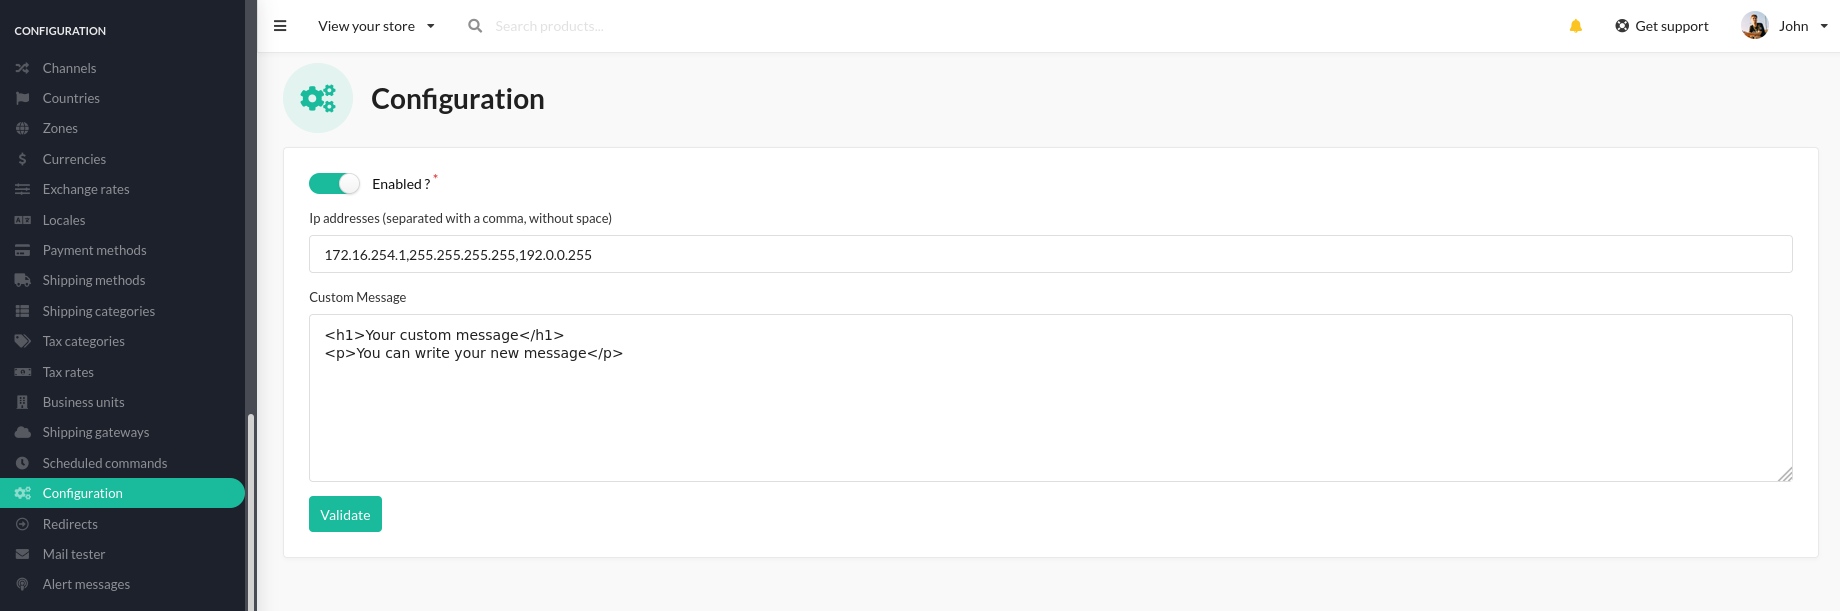
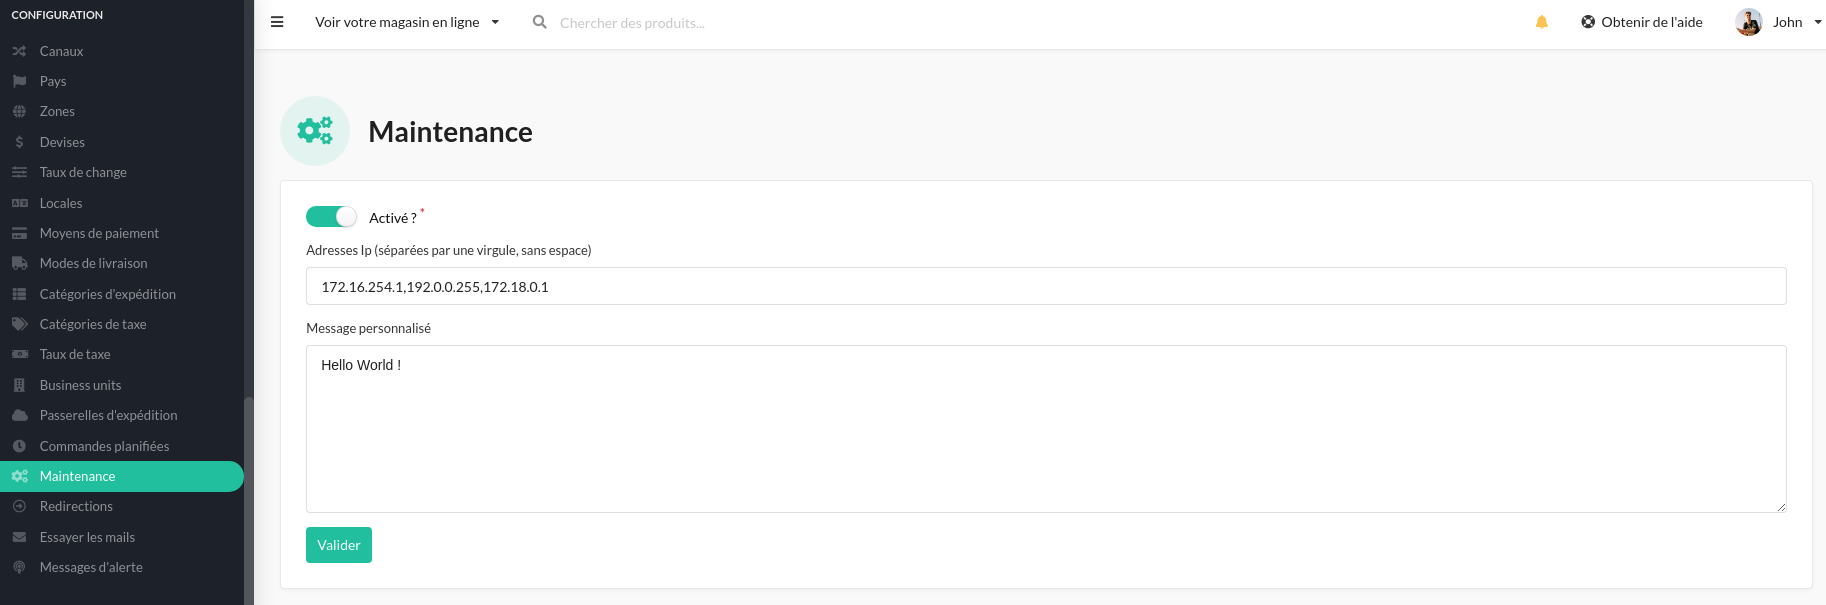
review: translate messages

diff --git a/src/Command/EnableMaintenanceCommand.php b/src/Command/EnableMaintenanceCommand.php
@@ -8,6 +8,7 @@ use Symfony\Component\Console\Command\Command;
 use Symfony\Component\Console\Input\InputArgument;
 use Symfony\Component\Console\Input\InputInterface;
 use Symfony\Component\Console\Output\OutputInterface;
+use Symfony\Contracts\Translation\TranslatorInterface;
 use Synolia\SyliusMaintenancePlugin\FileManager\ConfigurationFileManager;
 
 final class EnableMaintenanceCommand extends Command
@@ -18,9 +19,12 @@ final class EnableMaintenanceCommand extends Command
 
     private ConfigurationFileManager $fileManager;
 
-    public function __construct(ConfigurationFileManager $fileManager)
+    private TranslatorInterface $translator;
+
+    public function __construct(ConfigurationFileManager $fileManager, TranslatorInterface $translator)
     {
         $this->fileManager = $fileManager;
+        $this->translator = $translator;
 
         parent::__construct();
     }
@@ -35,13 +39,13 @@ final class EnableMaintenanceCommand extends Command
 
     protected function execute(InputInterface $input, OutputInterface $output): int
     {
-        $output->writeln($this->fileManager->createFile(self::MAINTENANCE_FILE));
+        $output->writeln($this->translator->trans($this->fileManager->createFile(self::MAINTENANCE_FILE)));
 
         /** @var array $ipsAddress */
         $ipsAddress = $input->getArgument('ips_address');
 
         if (0 < \count($ipsAddress)) {
-            $output->writeln($this->fileManager->putIpsIntoFile($ipsAddress, self::MAINTENANCE_FILE));
+            $output->writeln($this->translator->trans($this->fileManager->putIpsIntoFile($ipsAddress, self::MAINTENANCE_FILE)));
         }
 
         return 0;

diff --git a/src/Command/DisableMaintenanceCommand.php b/src/Command/DisableMaintenanceCommand.php
@@ -7,6 +7,7 @@ namespace Synolia\SyliusMaintenancePlugin\Command;
 use Symfony\Component\Console\Command\Command;
 use Symfony\Component\Console\Input\InputInterface;
 use Symfony\Component\Console\Output\OutputInterface;
+use Symfony\Contracts\Translation\TranslatorInterface;
 use Synolia\SyliusMaintenancePlugin\FileManager\ConfigurationFileManager;
 
 final class DisableMaintenanceCommand extends Command
@@ -17,9 +18,12 @@ final class DisableMaintenanceCommand extends Command
 
     private ConfigurationFileManager $fileManager;
 
-    public function __construct(ConfigurationFileManager $fileManager)
+    private TranslatorInterface $translator;
+
+    public function __construct(ConfigurationFileManager $fileManager, TranslatorInterface $translator)
     {
         $this->fileManager = $fileManager;
+        $this->translator = $translator;
 
         parent::__construct();
     }
@@ -33,7 +37,7 @@ final class DisableMaintenanceCommand extends Command
 
     protected function execute(InputInterface $input, OutputInterface $output): int
     {
-        $output->writeln($this->fileManager->deleteFile(self::MAINTENANCE_FILE));
+        $output->writeln($this->translator->trans($this->fileManager->deleteFile(self::MAINTENANCE_FILE)));
 
         return 0;
     }

diff --git a/src/FileManager/ConfigurationFileManager.php b/src/FileManager/ConfigurationFileManager.php
@@ -11,15 +11,15 @@ use Symfony\Component\Yaml\Yaml;
 
 final class ConfigurationFileManager
 {
-    private const ADD_IP_SUCCESS = 'The ips were added to the file maintenance.yaml successfully.';
+    private const ADD_IP_SUCCESS = 'maintenance.ui.message_success_ips';
 
-    private const ADD_IP_ERROR = 'An error occurred while adding ips addresses.';
+    private const ADD_IP_ERROR = 'maintenance.ui.message_error_ips';
 
-    private const PLUGIN_ENABLED = 'The file maintenance.yaml was created successfully. The plugin was enabled.';
+    private const PLUGIN_ENABLED = 'maintenance.ui.message_enabled';
 
-    private const PLUGIN_DISABLED = 'The file maintenance.yaml was deleted successfully. The plugin was disabled.';
+    private const PLUGIN_DISABLED = 'maintenance.ui.message_disabled';
 
-    private const PLUGIN_DISABLED_FILE_NOT_FOUND = 'The file maintenance.yaml was not found. The plugin is disabled.';
+    private const PLUGIN_DISABLED_FILE_NOT_FOUND = 'maintenance.ui.message_disabled_404';
 
     private Filesystem $filesystem;
 

diff --git a/src/Controller/MaintenanceConfigurationController.php b/src/Controller/MaintenanceConfigurationController.php
@@ -75,7 +75,7 @@ final class MaintenanceConfigurationController extends AbstractController
                         $this->fileManager->convertStringToArray($data->getIpAddresses()), self::MAINTENANCE_FILE
                     );
 
-                    if ($result !== 'The ips were added to the file maintenance.yaml successfully.') {
+                    if ($result !== 'maintenance.ui.message_success_ips') {
                         $this->flashBag->add(
                             'error',
                             $this->translator->trans('maintenance.ui.message_error_ips')
